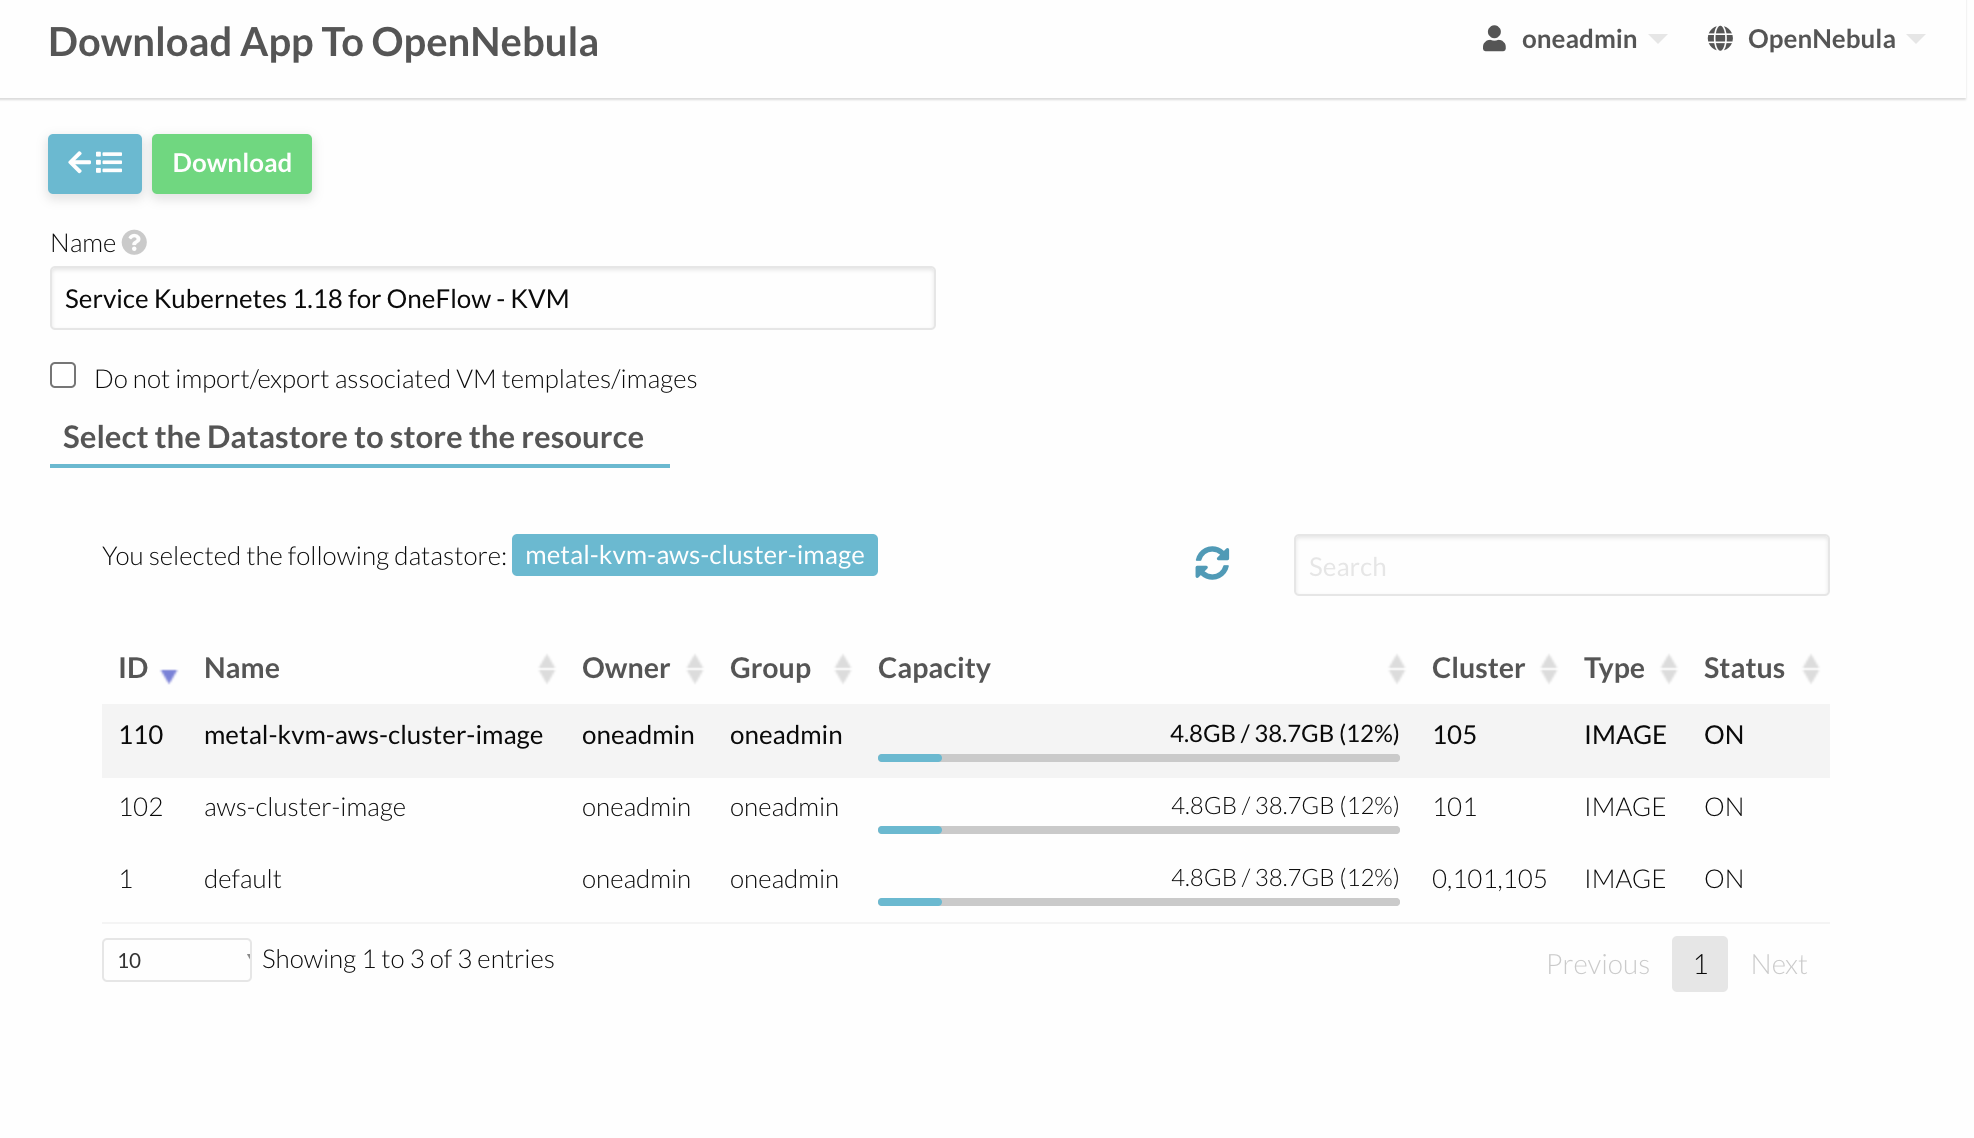
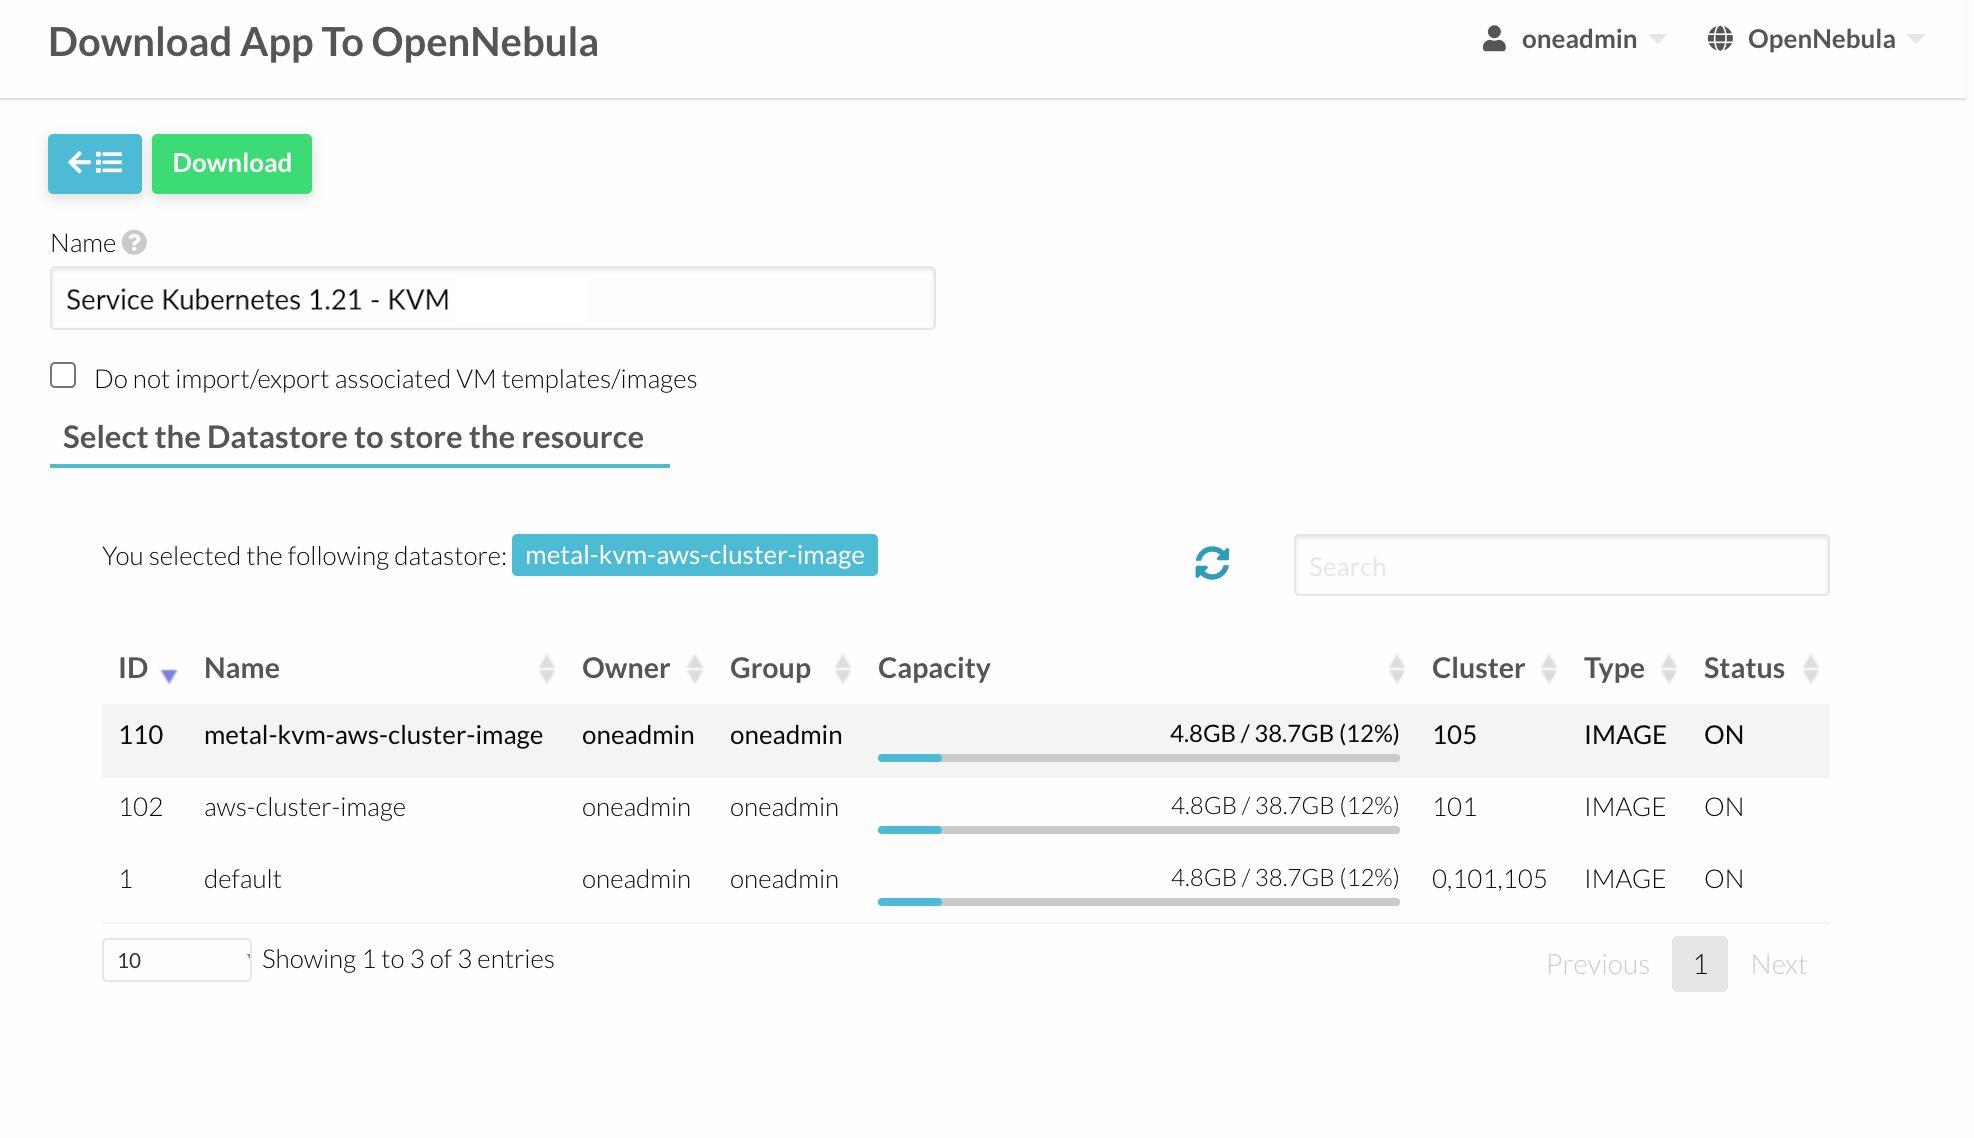
M #-: Update Kubernetes Appliance Quick Start

diff --git a/source/quick_start/usage_basics/running_kubernetes_clusters.rst b/source/quick_start/usage_basics/running_kubernetes_clusters.rst
@@ -13,7 +13,7 @@ We are going to assume the Edge Cluster naming schema ``metal-kvm-aws-cluster``.
 Step 1. Download the OneFlow Service from the Marketplace
 ~~~~~~~~~~~~~~~~~~~~~~~~~~~~~~~~~~~~~~~~~~~~~~~~~~~~~~~~~~
 
-Log in to Sunstone as oneadmin. Go to the ``Storage --> Apps`` tab and search for ``Kubernetes``. Select the ``Service Kubernetes 1.18 for OneFlow - KVM`` and click on the icon with the cloud and the down arrow inside (two positions to the right from the green ``+``).
+Log in to Sunstone as oneadmin. Go to the ``Storage --> Apps`` tab and search for ``Kubernetes``. Select the ``Service Kubernetes 1.21 - KVM`` and click on the icon with the cloud and the down arrow inside (two positions to the right from the green ``+``).
 
 |kubernetes_marketplace|
 
@@ -31,11 +31,11 @@ Step 2. Instantiate the Kubernetes Service
 
 .. note::
 
-    You may want to adjust the VM templates before you progress further - go to ``Templates --> VMs``, click on the ``Service Kubernetes 1.18 for OneFlow - KVM-0`` and blue button ``Update`` at the top.
+    You may want to adjust the VM templates before you progress further - go to ``Templates --> VMs``, click on the ``Service Kubernetes 1.21 - KVM-0`` and blue button ``Update`` at the top.
 
     Here you can increase memory for the nodes, disk capacity, add SSH key, etc. How to modify the VM template is summarized in the short `Quick Start <https://docs.opennebula.io/appliances/service/kubernetes.html#update-vm-template>`_ for the Kubernetes Appliance.
 
-Proceed to the ``Templates --> Services`` tab and select the ``Service Kubernetes 1.18 for OneFlow - KVM`` Service Template (that should be the only one available). Click on ``+`` and then ``Instantiate``.
+Proceed to the ``Templates --> Services`` tab and select the ``Service Kubernetes 1.21 - KVM`` Service Template (that should be the only one available). Click on ``+`` and then ``Instantiate``.
 
 A required step is clicking on ``Network`` and selecting the ``metal-kvm-aws-cluster-public`` network.
 
@@ -229,19 +229,25 @@ Now you can access the application using the public IP of the Nic Alias in the b
 LoadBalancer Service
 ++++++++++++++++++++
 
-We can improve the previous setup by configuring the Appliance with a `LoadBalancer range <https://docs.opennebula.io/appliances/service/kubernetes.html#k8s-context-param>`_ context parameter (``ONEAPP_K8S_LOADBALANCER_CONFIG`` or ``ONEAPP_K8S_LOADBALANCER_RANGE``) and expose the service as a `Kubernetes type LoadBalancer <https://kubernetes.io/docs/concepts/services-networking/service/#loadbalancer>`_.
+We can improve the previous setup by configuring the Appliance with a LoadBalancer `context parameter <https://docs.opennebula.io/appliances/service/kubernetes.html#k8s-context-param>`_ for the IP range (``ONEAPP_K8S_LOADBALANCER_RANGE``) and expose the service as a `Kubernetes type LoadBalancer <https://kubernetes.io/docs/concepts/services-networking/service/#loadbalancer>`_.
 
 .. important::
 
     **The range must match the actually intended range of publishable IP addresses!**
 
-    E.g. in this scenario we could setup:
+    In this demo we have only one available address for load balancing and so our range will have only one address:
+
+    .. code::
+
+        ONEAPP_K8S_LOADBALANCER_RANGE="10.0.93.120"
+
+    This syntax is allowed for convenience (by the appliance not MetalLB!) and it could have been written alternatively as:
 
     .. code::
 
         ONEAPP_K8S_LOADBALANCER_RANGE="10.0.93.120-10.0.93.120"
 
-    Our range spans only one address because we have only one available IP address for loadbalancing.
+    Which is the correct format for ranges with more than one addresses.
 
 The setup is very similar to the previous one but when we are creating the NIC alias we will also tick the ``External`` checkbox button. This way the IP will not be actually assigned anywhere but it will be reserved for our loadbalancing usage.
 
